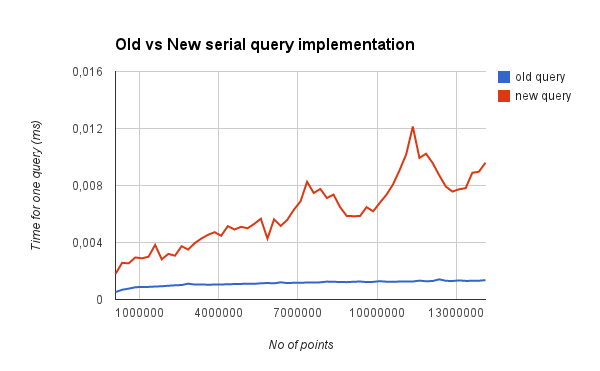
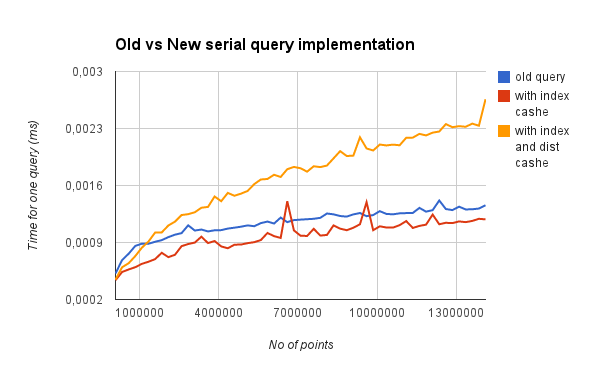
Updated search with index cashe and distance cashe. Timed with different combinations and updated results.

diff --git a/src/kNN/kd-tree/kd-tree-iterative.c b/src/kNN/kd-tree/kd-tree-iterative.c
@@ -5,9 +5,9 @@
 
 struct Point
 {
-  float p[3];
-  int left;
-  int right;
+    float p[3];
+    int left;
+    int right;
 };
 
 int ind(int i, int j, int n)
@@ -133,6 +133,8 @@ int store_locations(struct Point *tree, int lower, int upper, int n)
 
 float dist(float *qp, struct Point *points, int x)
 {
+    return 0.0;
+
     float dx = qp[0] - points[x].p[0],
         dy = qp[1] - points[x].p[1],
         dz = qp[2] - points[x].p[2];
@@ -140,28 +142,9 @@ float dist(float *qp, struct Point *points, int x)
     return dx*dx + dy*dy + dz*dz;
 }
 
-// float dist(float *qp, struct Point *points, int x)
-// {
-//     return (qp[0] - points[x].p[0])*(qp[0] - points[x].p[0]) 
-//         + (qp[1] - points[x].p[1])*(qp[1] - points[x].p[1])
-//         + (qp[2] - points[x].p[2])*(qp[2] - points[x].p[2]);
-// }
-
-// float dist(float *qp, struct Point *points, int x)
-// {
-//     int i;
-//     float t, d = 0;
-
-//     for (i = 0; i < 3; ++i)
-//     {
-//         t = qp[i] - points[x].p[i];
-//         d += t * t;
-//     }
-//     return d;
-// }
-
 int nn(float *qp, struct Point *tree, int dim, int index)
 {
+
     if (tree[index].left == -1 && tree[index].right == -1)
     {
         return index;
@@ -183,9 +166,8 @@ int nn(float *qp, struct Point *tree, int dim, int index)
     }
 
     target = nn(qp, tree, dim, target_index);
-
-    float target_dist = dist(qp, tree, target),
-        current_dist = dist(qp, tree, index);
+    float target_dist = dist(qp, tree, target);
+    float current_dist = dist(qp, tree, index);
 
     if (current_dist < target_dist)
     {
@@ -199,7 +181,6 @@ int nn(float *qp, struct Point *tree, int dim, int index)
     }
 
     other = nn(qp, tree, dim, other_index);
-
     float other_distance = dist(qp, tree, other);
 
     if (other_distance > target_dist)
@@ -209,54 +190,54 @@ int nn(float *qp, struct Point *tree, int dim, int index)
     return other;
 }
 
-// nn2(root, &this, 0, 3, &found, &best_dist);
-// int nn(float *qp, struct Point *tree, int dim, int index)
-int nn2(float *qp, struct Point *tree, int index, int s, int dim, float *best_dist)
-{
-    float d, dx, dx2;
- 
-    if (tree[index].left == -1 && tree[index].right == -1)
-    {
-        return index;
-    }
+// int nn(float *qp, struct Point *tree, float *dists, int dim, int index)
+// {
+//     float current_dist = dist(qp, tree, index);
+//     dists[index] = current_dist;
 
-    d = dist(qp, tree, index); // current dist
-    dx = tree[index].p[s] - qp[s];
-    dx2 = dx * dx;
- 
-    if (!*best_dist || d < *best_dist) {
-        *best_dist = d;
-    }
- 
-    if (++s >= dim)
-    {
-        s = 0;
-    }
- 
-    int best;
-    if (dx > 0)
-    {
-        best = nn2(qp, tree, tree[index].left, s, dim, best_dist);
-    }
-    else
-    {
-        best = nn2(qp, tree, tree[index].right, s, dim, best_dist);
-    }
+//     if (tree[index].left == -1 && tree[index].right == -1)
+//     {
+//         return index;
+//     }
 
-    if (dx2 >= *best_dist)
-    {
-        return best;
-    }
+//     int target, other, d = dim % 3,
+    
+//         target_index = tree[index].right,
+//         other_index = tree[index].left;
+    
+//     dim++;
 
-    if (dx > 0)
-    {
-        return nn2(qp, tree, tree[index].right, d, dim, best_dist);
-    }
-    else
-    {
-        return nn2(qp, tree, tree[index].left, d, dim, best_dist);
-    }
-}
+//     if (tree[index].p[d] > qp[d] || target_index == -1)
+//     {
+//         int temp = target_index;
+
+//         target_index = other_index;
+//         other_index = temp;
+//     }
+
+//     target = nn(qp, tree, dists, dim, target_index);
+//     float target_dist = dists[target];
+
+//     if (current_dist < target_dist)
+//     {
+//         target_dist = current_dist;
+//         target = index;
+//     }
+
+//     if ((tree[index].p[d] - qp[d])*(tree[index].p[d] - qp[d]) > target_dist || other_index == -1)
+//     {
+//         return target;
+//     }
+
+//     other = nn(qp, tree, dists, dim, other_index);
+//     float other_distance = dists[other];
+
+//     if (other_distance > target_dist)
+//     {
+//         return target;
+//     }
+//     return other;
+// }
 
 int nearest(float *qp, struct Point *tree, int lower, int upper, int dim, int n)
 {
@@ -345,27 +326,13 @@ double wall_time()
 
 int test_nn(struct Point *tree, int n, float qx, float qy, float qz, float ex, float ey, float ez)
 {
+    float dists[n];
+
     float query_point[3];
     query_point[0] = qx, query_point[1] = qy, query_point[2] = qz;
     
+    // int best_fit = nn(query_point, tree, dists, 0, midpoint(0, n));
     int best_fit = nn(query_point, tree, 0, midpoint(0, n));
-
-    float actual = tree[best_fit].p[0] + tree[best_fit].p[1] + tree[best_fit].p[2];
-    float expected = ex + ey + ez;
-
-    if (actual == expected)
-    {
-        return 0;
-    }
-    return 1;
-}
-
-int test_nn2(struct Point *tree, int n, float qx, float qy, float qz, float ex, float ey, float ez)
-{
-    float best_dist, query_point[3];
-    query_point[0] = qx, query_point[1] = qy, query_point[2] = qz;
-    
-    int best_fit = nn2(query_point, tree, midpoint(0, n), 0, 3, &best_dist);       
 
     float actual = tree[best_fit].p[0] + tree[best_fit].p[1] + tree[best_fit].p[2];
     float expected = ex + ey + ez;
@@ -409,13 +376,13 @@ void randomPoint(struct Point *x)
 
 int main(int argc, char *argv[])
 {
-    int i, j, n = 10, wn = 6, debug = 1;
+    int i, j, n = 10, wn = 6, debug = 0;
     struct Point *points, *wiki;
 
     if (!debug)
     {
-        n = 5000000;
-        // n = atoi(argv[1]);
+        // n = 5100000;
+        n = atoi(argv[1]);
     }
 
     points = malloc(n * sizeof(struct Point));
@@ -437,7 +404,7 @@ int main(int argc, char *argv[])
         store_locations(points, 0, n, n);
 
         double build_time = (wall_time() - time) * 1000;
-        printf("\nBuild duration for %d points: %lf (ms)\n", n, (wall_time() - time) * 1000);
+        // printf("\nBuild duration for %d points: %lf (ms)\n", n, (wall_time() - time) * 1000);
 
         int test_runs = 10000;
         float **query_data = malloc(test_runs * 3 * sizeof(float));
@@ -451,46 +418,38 @@ int main(int argc, char *argv[])
             query_data[i] = qp;
         }
 
-        printf("\nOld query:\n");
+        // printf("\nOld query:\n");
 
         time = wall_time();
         for (i = 0; i < test_runs; i++) {
             nearest(query_data[i], points, 0, n, 0, n);
         }
-        printf("Average query duration: %lf (ms)\n", ((wall_time() - time) * 1000) / test_runs);
-        printf("Total time for %d queries: %lf (ms)\n", test_runs, ((wall_time() - time) * 1000));
+        // printf("%lf\n", ((wall_time() - time) * 1000) / test_runs);
 
-        printf("\nNew query:\n");
+        // printf("Average query duration: %lf (ms)\n", ((wall_time() - time) * 1000) / test_runs);
+        // printf("Total time for %d queries: %lf (ms)\n", test_runs, ((wall_time() - time) * 1000));
+
+        // printf("\nNew query:\n");
+
+        float *dists = malloc(n * sizeof(float));
 
         time = wall_time();
         for (i = 0; i < test_runs; i++) {
+            // nn(query_data[i], points, dists, 0, midpoint(0, n));
             nn(query_data[i], points, 0, midpoint(0, n));
         }
-        // printf("%lf, %lf\n", ((wall_time() - time) * 1000) / test_runs, build_time);
+        printf("%lf\n", ((wall_time() - time) * 1000) / test_runs);
 
-        printf("Average query duration: %lf (ms)\n", ((wall_time() - time) * 1000) / test_runs);
-        printf("Total time for %d queries: %lf (ms)\n", test_runs, ((wall_time() - time) * 1000));
+        // printf("Average query duration: %lf (ms)\n", ((wall_time() - time) * 1000) / test_runs);
+        // printf("Total time for %d queries: %lf (ms)\n", test_runs, ((wall_time() - time) * 1000));
 
-        printf("\nEven better query:\n");
-
-        float best_dist;
-        time = wall_time();
-        for (i = 0; i < test_runs; i++) {
-            nn2(query_data[i], points, midpoint(0, n), 0, 3, &best_dist);
-        }
-        // printf("%lf, %lf\n", ((wall_time() - time) * 1000) / test_runs, build_time);
-
-        printf("Average query duration: %lf (ms)\n", ((wall_time() - time) * 1000) / test_runs);
-        printf("Total time for %d queries: %lf (ms)\n", test_runs, ((wall_time() - time) * 1000));
-
-
+        free(dists);
 
         for (i = 0; i < test_runs; ++i)
         {
             free(query_data[i]);
         }
         free(query_data);
-
     }
 
     if (debug)
